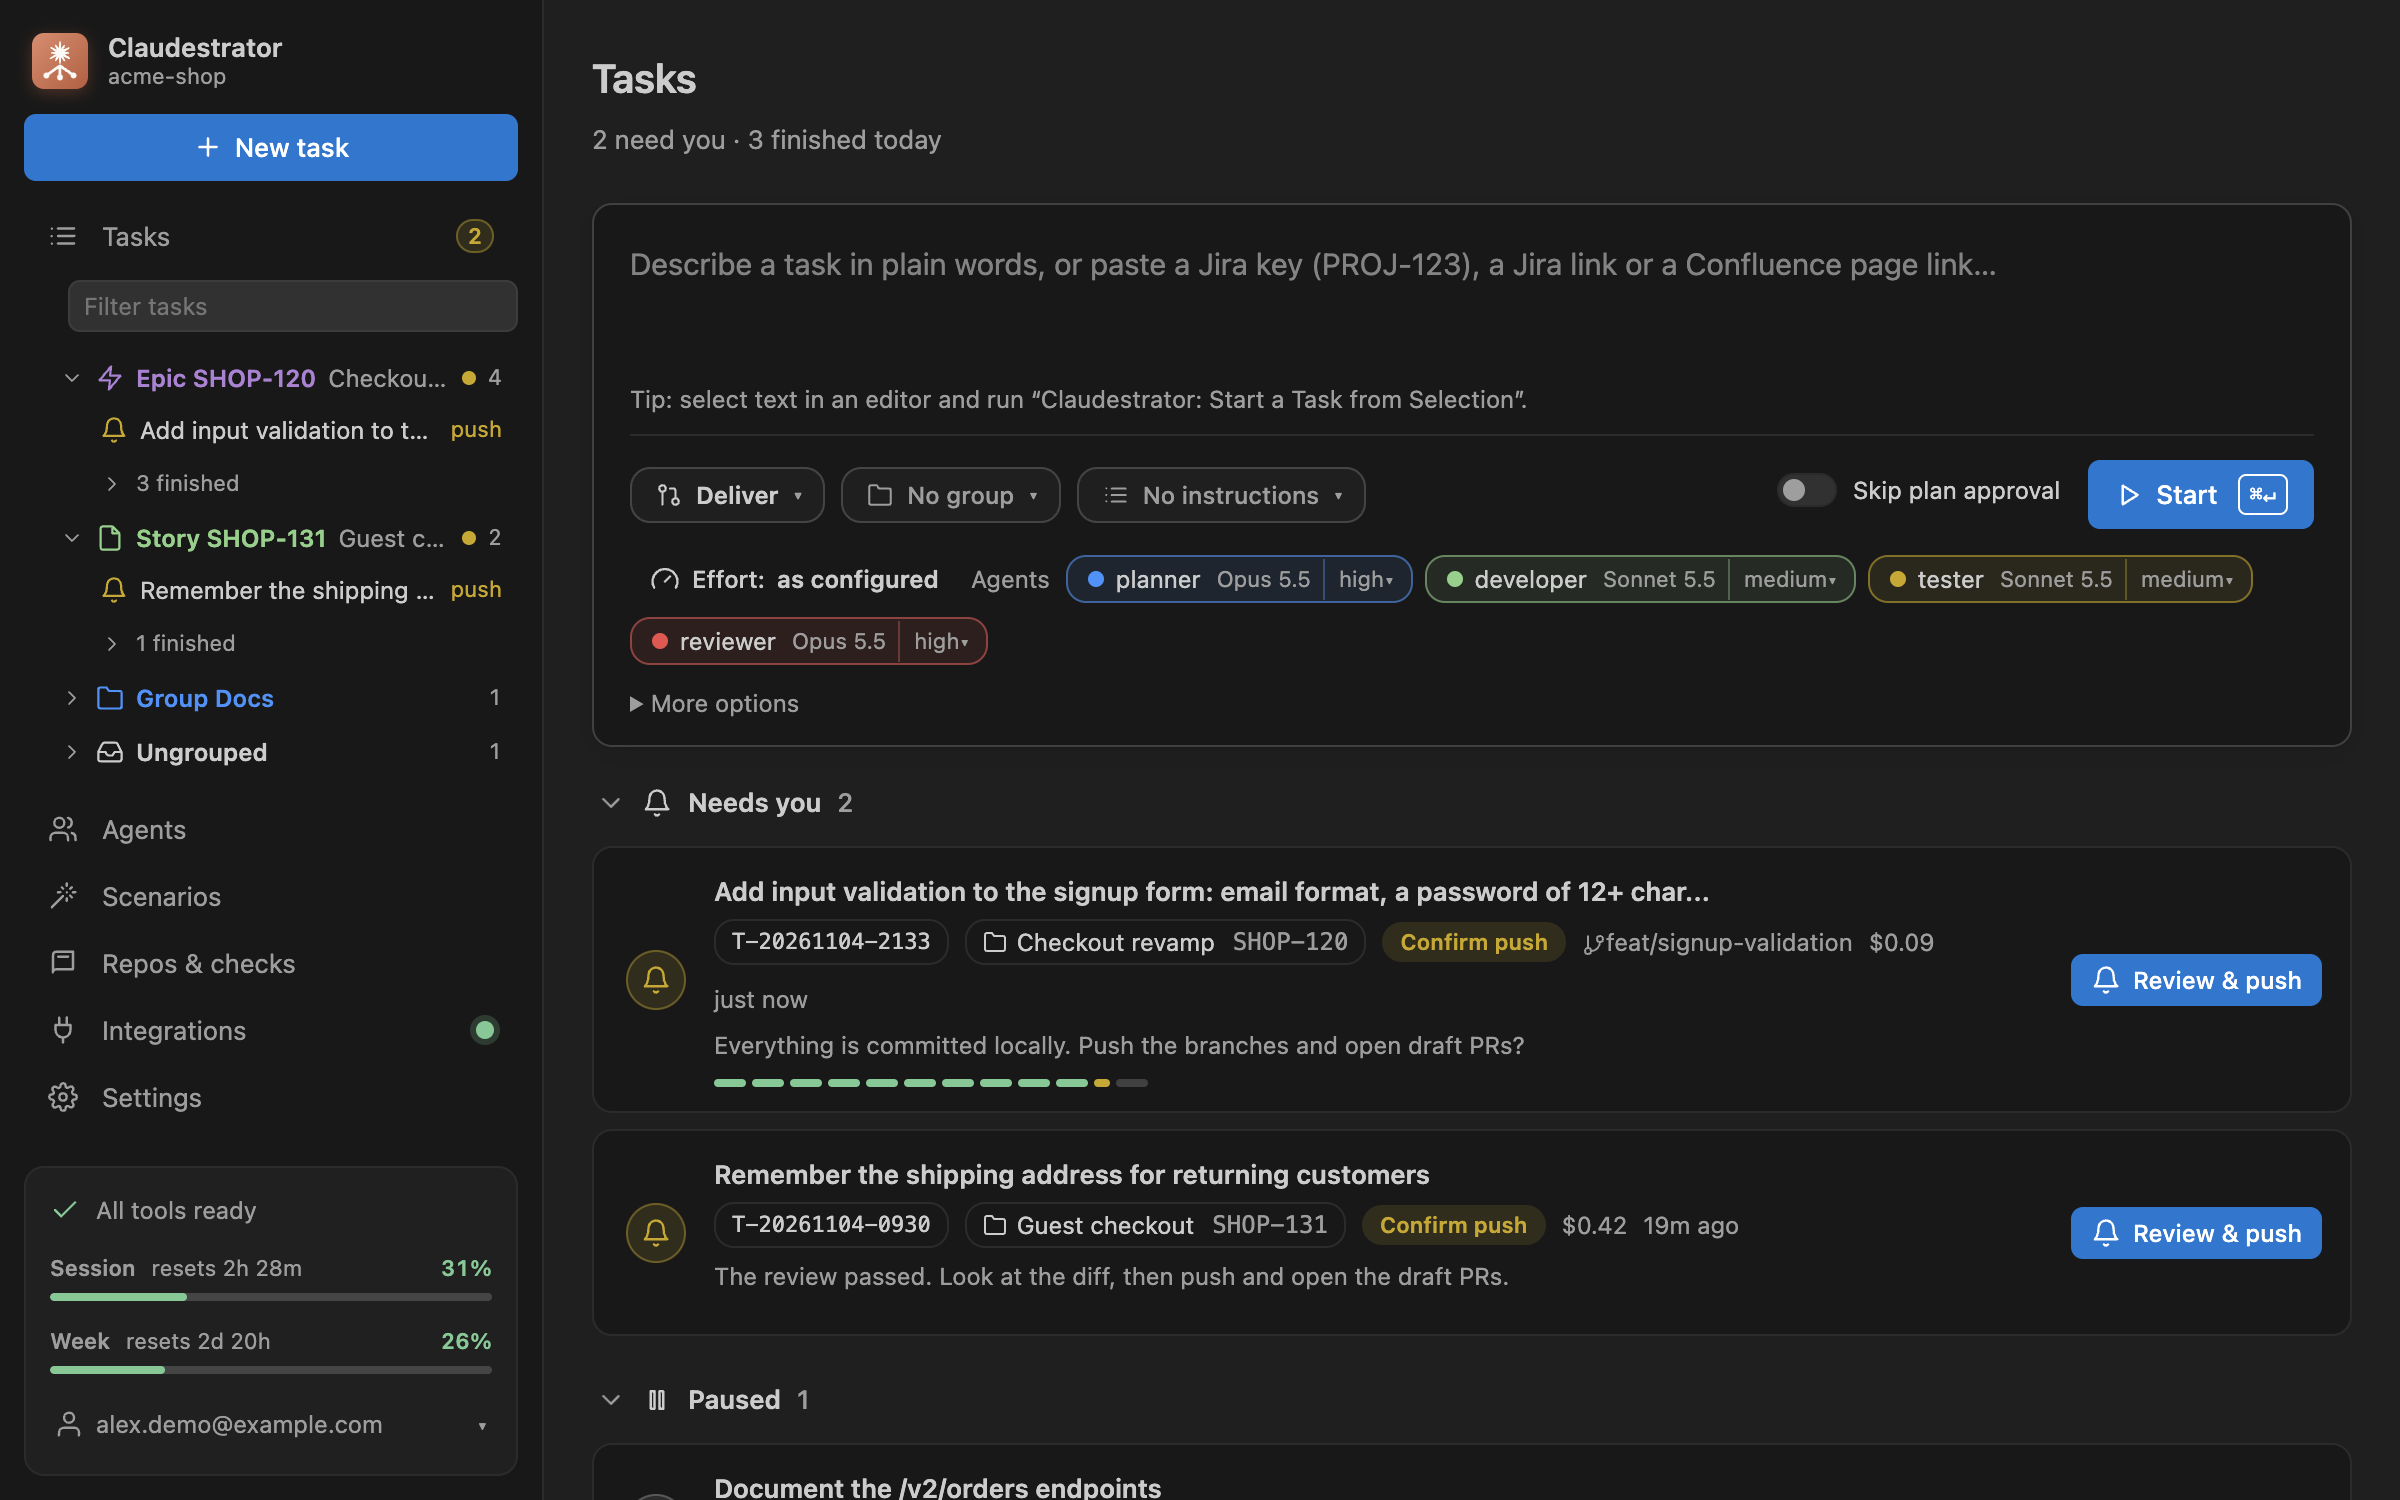
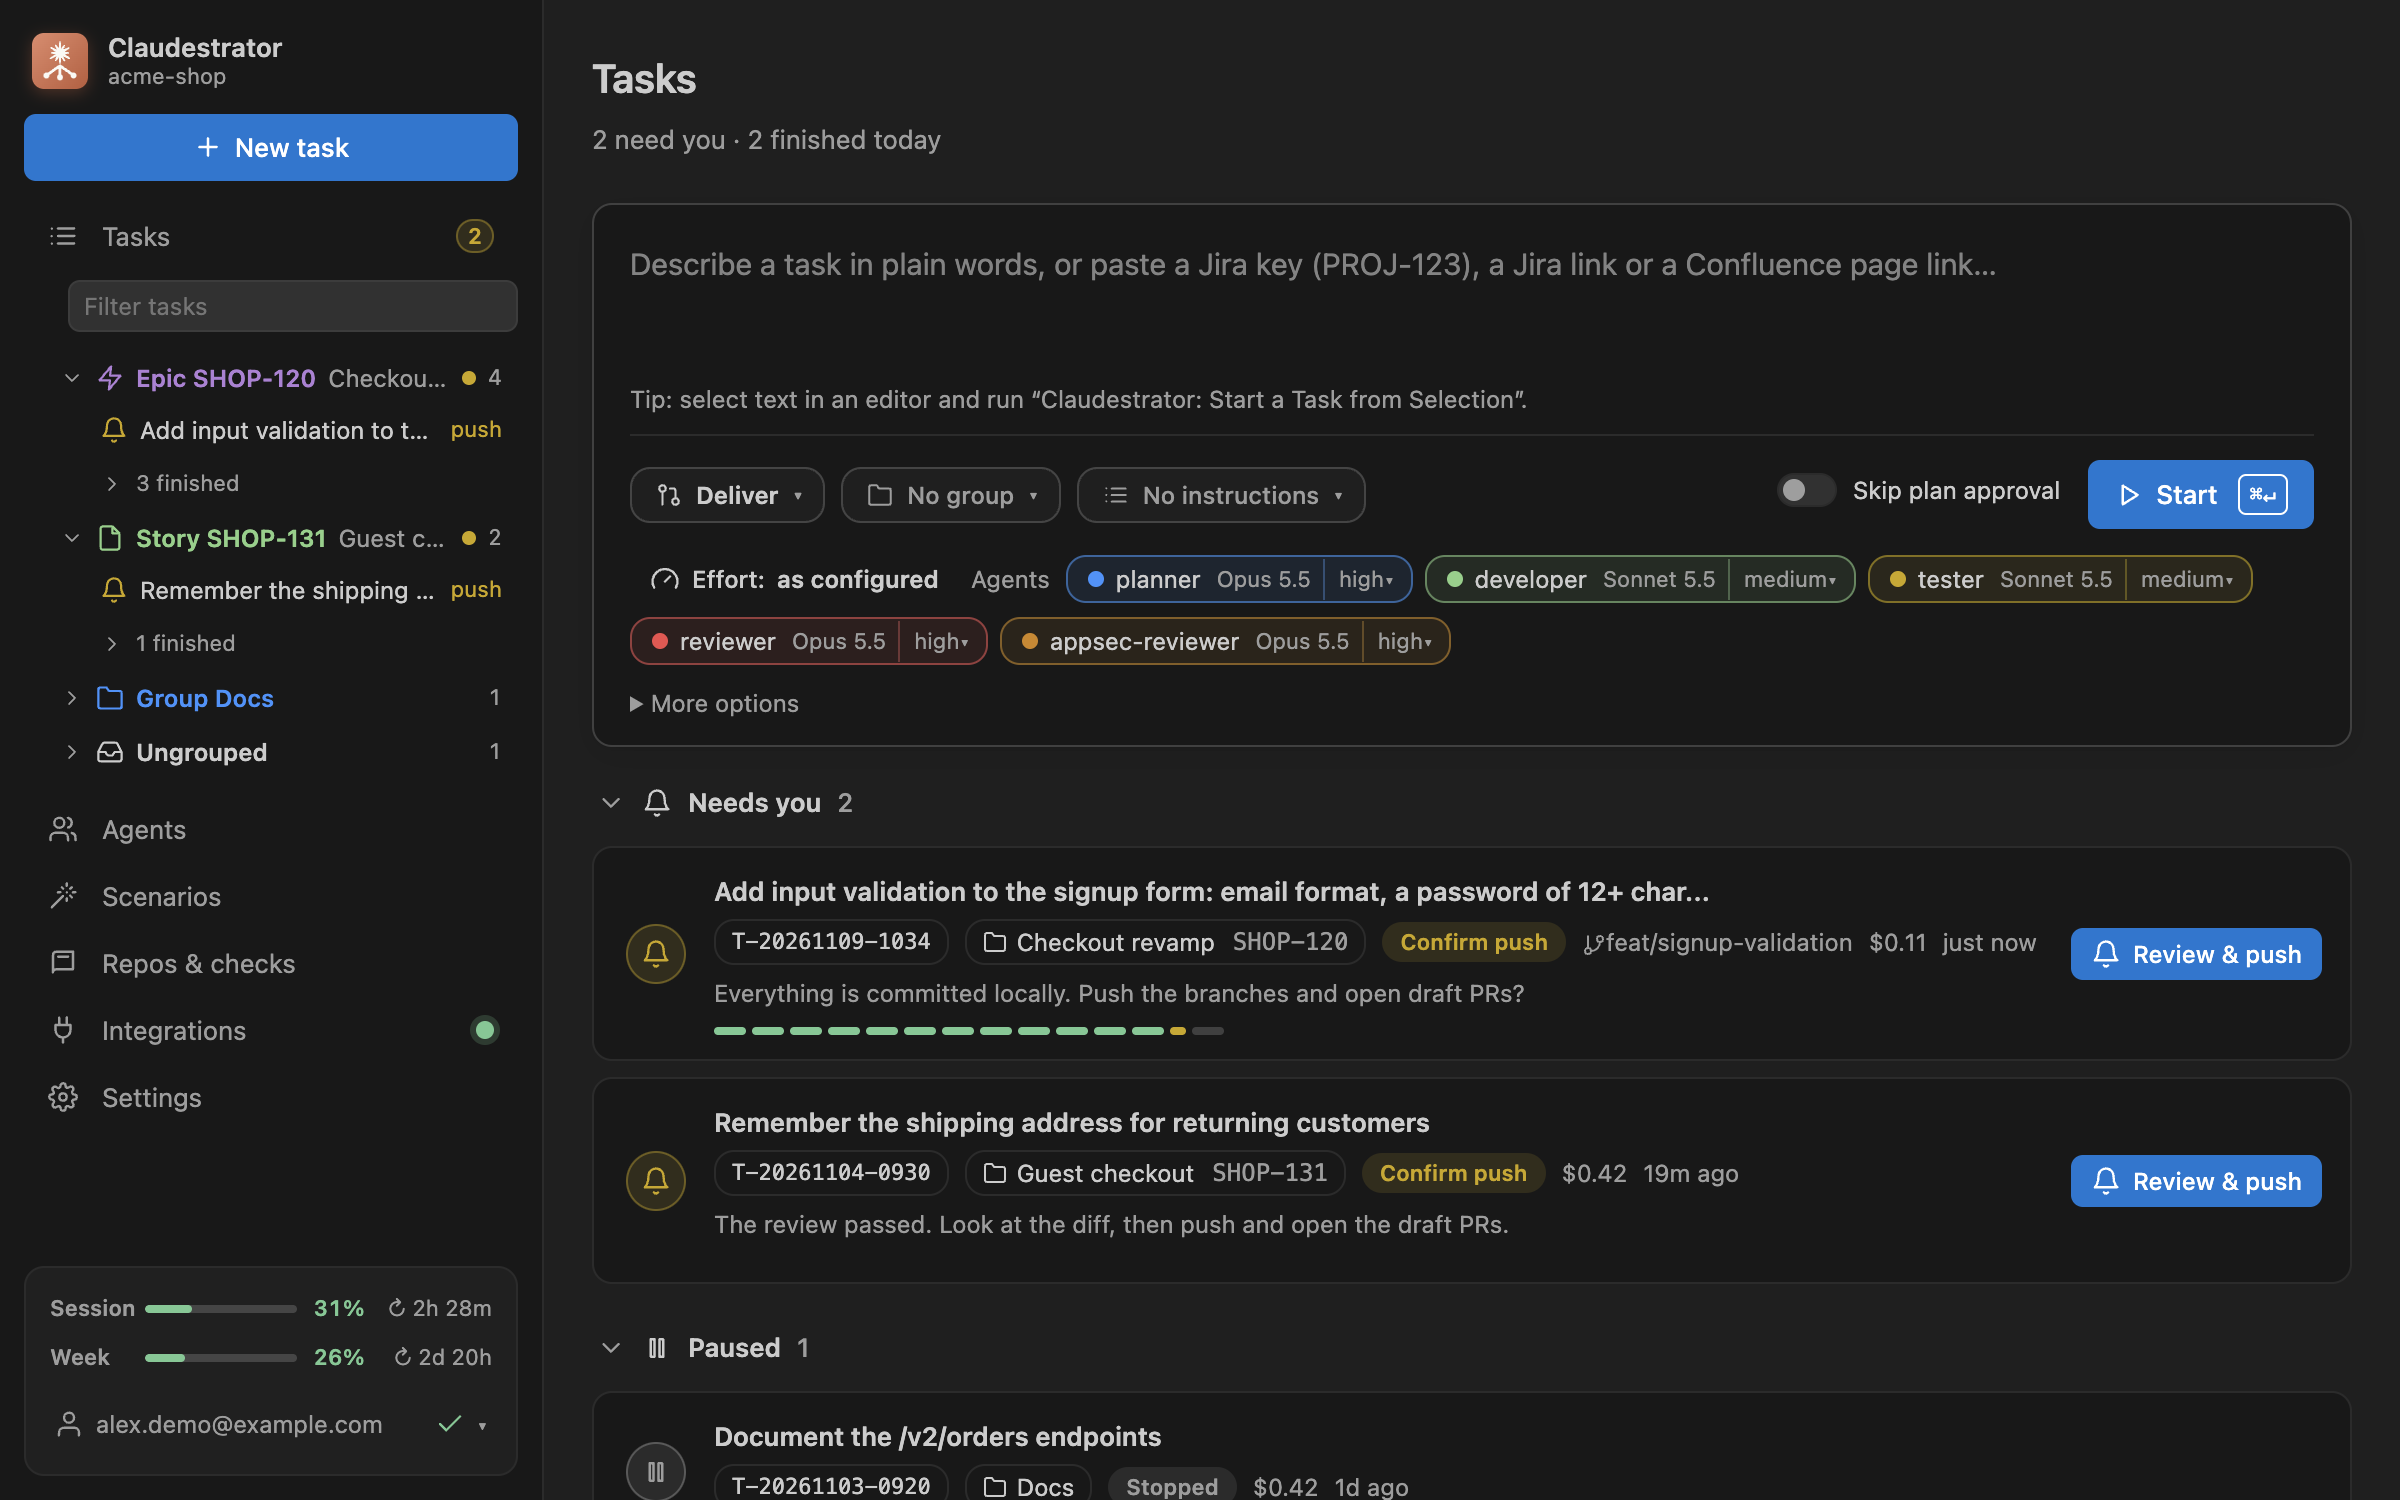
docs(claudestrator): Marketplace screenshots with parallel reviewers and the scenario diagram
- every screenshot taken again: the new built-in scenarios, appsec-reviewer in Deliver
- new: both reviewers at work at once, a task's flow with its Parallel, a scenario
  as a diagram with a Loop, a Parallel and a step's own instructions
- shoot.mjs turns appsec-reviewer on, takes the new shots and copies the set to the
  JetBrains plugin's Marketplace folder when it is there
- cdp.mjs: a viewport shot starts where the window is scrolled to

diff --git a/claudestrator/README.md b/claudestrator/README.md
@@ -38,6 +38,10 @@ The orchestration is code, not a prompt: a pure state machine decides what runs 
 
 ![Agents at work: developer per repo, then the tester across all of them](https://raw.githubusercontent.com/yurii-bondar/vs-code-extensions/main/claudestrator/media/screenshots/03-running.png)
 
+**Two reviewers at once: the reviewer and the appsec reviewer, each in its own session**
+
+![Two reviewers at once: the reviewer and the appsec reviewer, each in its own session](https://raw.githubusercontent.com/yurii-bondar/vs-code-extensions/main/claudestrator/media/screenshots/11-parallel-review.png)
+
 **The reviewer found a blocker: a fix round**
 
 ![The reviewer found a blocker: a fix round](https://raw.githubusercontent.com/yurii-bondar/vs-code-extensions/main/claudestrator/media/screenshots/04-fix-round.png)
@@ -45,6 +49,10 @@ The orchestration is code, not a prompt: a pure state machine decides what runs 
 **Everything is committed locally; the push and the draft PRs wait for you**
 
 ![Everything is committed locally; the push and the draft PRs wait for you](https://raw.githubusercontent.com/yurii-bondar/vs-code-extensions/main/claudestrator/media/screenshots/05-confirm-push.png)
+
+**The task's flow: the review loop, its round, and the reviewers that work in parallel**
+
+![The task's flow: the review loop, its round, and the reviewers that work in parallel](https://raw.githubusercontent.com/yurii-bondar/vs-code-extensions/main/claudestrator/media/screenshots/12-task-flow.png)
 
 **Tasks grouped by what needs you**
 
@@ -54,9 +62,9 @@ The orchestration is code, not a prompt: a pure state machine decides what runs 
 
 ![Agents and the pipeline: models, effort, order](https://raw.githubusercontent.com/yurii-bondar/vs-code-extensions/main/claudestrator/media/screenshots/07-agents.png)
 
-**Scenarios: Deliver, Check readiness, Audit and your own**
+**Scenarios: Deliver, the built-in ones and your own**
 
-![Scenarios: Deliver, Check readiness, Audit and your own](https://raw.githubusercontent.com/yurii-bondar/vs-code-extensions/main/claudestrator/media/screenshots/08-scenarios.png)
+![Scenarios: Deliver, the built-in ones and your own](https://raw.githubusercontent.com/yurii-bondar/vs-code-extensions/main/claudestrator/media/screenshots/08-scenarios.png)
 
 **Repos and the checks that run after each agent**
 
@@ -65,6 +73,10 @@ The orchestration is code, not a prompt: a pure state machine decides what runs 
 **A group (epic, story) with its Jira key and the instructions it brings**
 
 ![A group (epic, story) with its Jira key and the instructions it brings](https://raw.githubusercontent.com/yurii-bondar/vs-code-extensions/main/claudestrator/media/screenshots/10-groups.png)
+
+**A scenario as a diagram: a Loop, a Parallel of reviewers, You approve, and one step's own instructions**
+
+![A scenario as a diagram: a Loop, a Parallel of reviewers, You approve, and one step's own instructions](https://raw.githubusercontent.com/yurii-bondar/vs-code-extensions/main/claudestrator/media/screenshots/13-scenario-diagram.png)
 
 ## Using it
 
